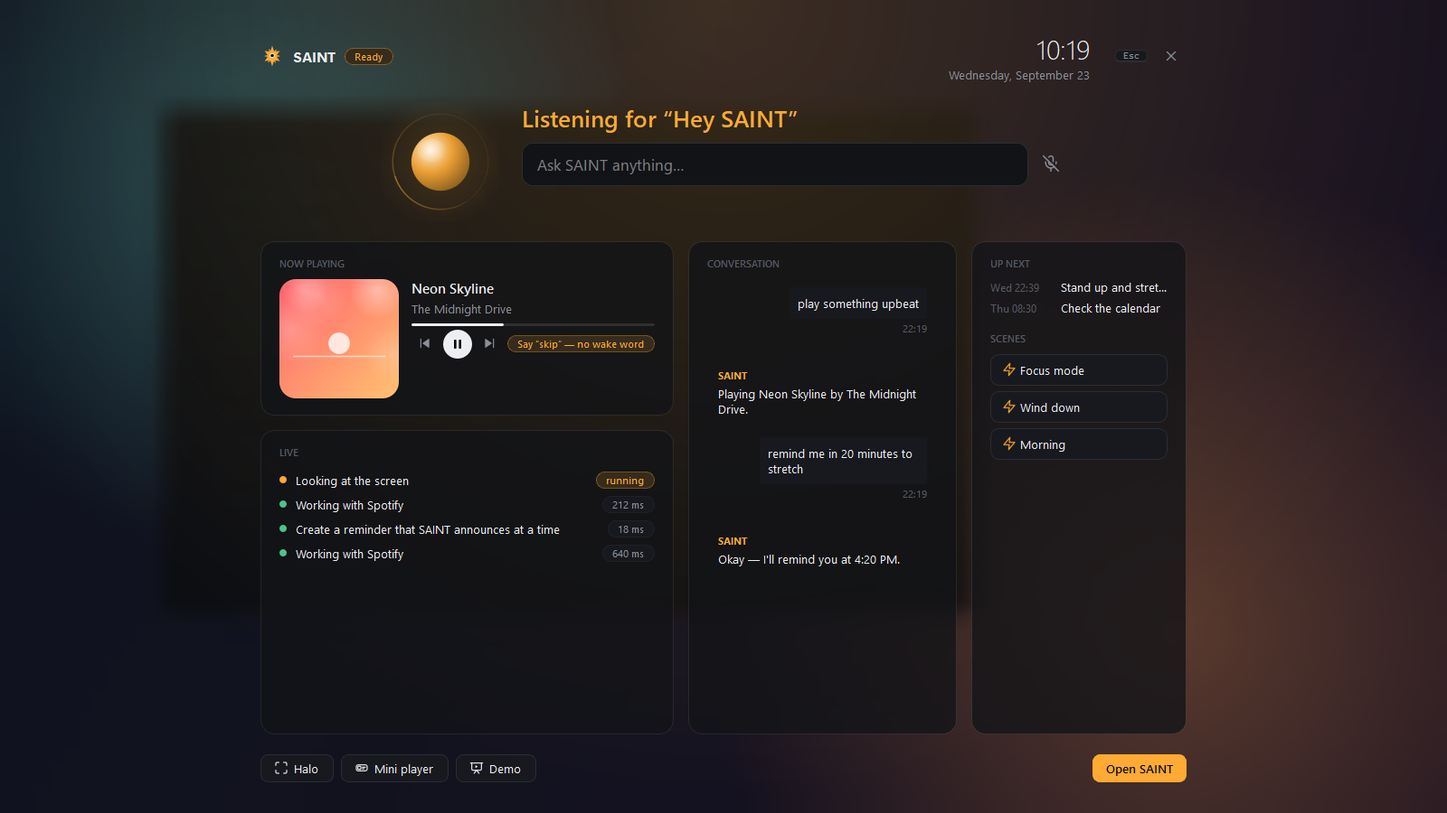
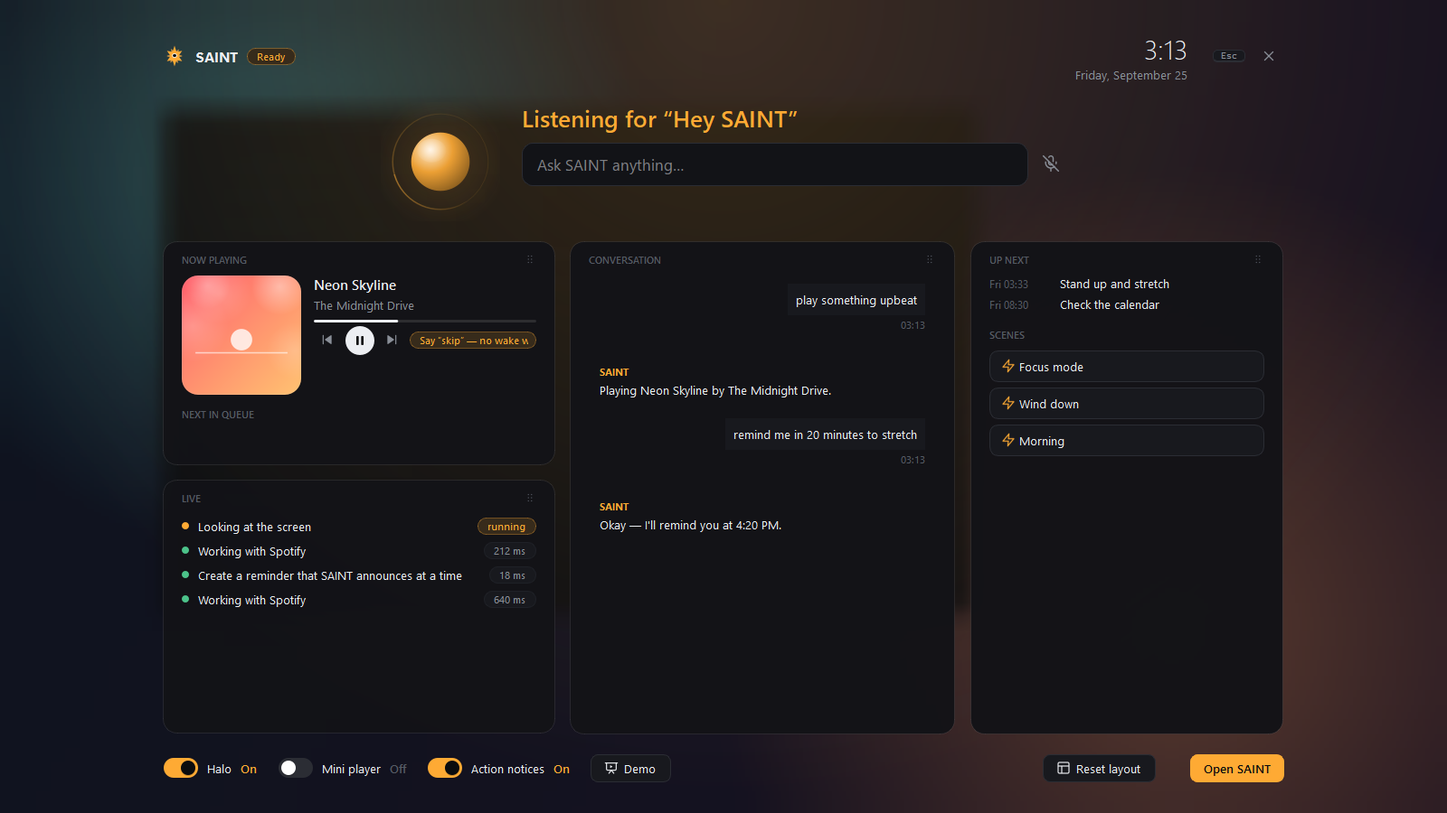
Docs: hands-free PC features, manual checklist, synthetic screenshots
README: what's new, examples, a 'Your PC, hands-free' section, honest
status per feature (what was verified live vs. needs a live check),
limitations, tests, layout and privacy. The manual checklist gains
sections for every new feature. Screenshots are regenerated from
synthetic data, including made-up drives for the Storage card and a
synthetic year for the History heatmap.

diff --git a/tools/dev/screenshots.py b/tools/dev/screenshots.py
@@ -88,6 +88,21 @@ def main():
     from core.events import EventType
     from modules.desktop.media import media
     media.start = lambda: None          # never show what's really playing on this PC
+    # Made-up drives for the Storage card — never this PC's real disks or folders.
+    import modules.files.scan as storage
+    GB = 1e9
+    storage.drive_overview = lambda: [
+        {"drive": "C:\\", "letter": "C", "label": "System", "total": 1000 * GB, "used": 612 * GB, "free": 388 * GB,
+         "percent": 61.2},
+        {"drive": "D:\\", "letter": "D", "label": "Games", "total": 2000 * GB, "used": 1710 * GB,
+         "free": 290 * GB, "percent": 85.5},
+        {"drive": "E:\\", "letter": "E", "label": "Archive", "total": 500 * GB, "used": 481 * GB, "free": 19 * GB,
+         "percent": 96.2}]
+    storage.cached = lambda root: {"root": "C:\\", "total": 612 * GB, "at": time.time() - 600, "folders": [
+        {"path": "C:\\" + p, "size": s * GB, "depth": p.count("\\") + 1} for p, s in (
+            ("Users", 240), ("Program Files", 118), ("Windows", 38), ("Program Files (x86)", 64),
+            ("Users\\alex\\Videos", 96), ("Users\\alex\\AppData", 71), ("Users\\alex\\Downloads", 34),
+            ("ProgramData", 22))]} if root.upper().startswith("C") else None
     from modules.automation.scheduler import scheduler
     from modules.automation.timeparse import parse_schedule
     for what, when in (("Stand up and stretch", "in 20 minutes"), ("Check the calendar", "every weekday at 8:30")):

diff --git a/README.md b/README.md
@@ -34,7 +34,11 @@ UI elements). The language model runs locally through [Ollama](https://ollama.co
   just say **“skip”**, **“pause”**, **“go back”**, **“louder”** — no wake word.
 - **Scenes.** One phrase, many actions: “focus mode” → play lofi, set volume, open Notion. Run them by
   voice, from the overlay, or on a schedule.
-- **History.** Everything you've asked and what SAINT did — with usage charts — stored only on your PC.
+- **Your whole PC, by voice.** Launch Steam games, find what's filling your drives and clear it safely,
+  extract downloads with WinRAR, lock the PC, mute your mic, set Discord to 30 %, switch to your
+  headphones, save and restore window layouts, and "tell me when Claude finishes".
+- **History.** Everything you've asked and what SAINT did — a year of activity as day squares, streaks and
+  usage charts — stored only on your PC.
 - **Command palette.** <kbd>Ctrl</kbd>+<kbd>K</kbd> jumps to any page, runs scenes and actions, or asks
   SAINT directly.
 - **Private by design.** Wake word, speech, voice and language model are all local. Nothing about you
@@ -42,7 +46,58 @@ UI elements). The language model runs locally through [Ollama](https://ollama.co
 
 ## What's new in this version
 
-**Latest:**
+**Latest — hands-free PC control:**
+
+- **SAINT controls itself.** "Open the dashboard", "go to history", "turn off the mini player", "hide the
+  halo", "dark mode", "minimize yourself". "The mini player" means SAINT's; YouTube's only when YouTube is
+  named or being watched.
+- **Steam.** "Launch Counter-Strike 2", "start cs2", "play Terraria on Steam", "open my Steam library",
+  "search Steam for Hades", "what games do I have", "what are my biggest games", "uninstall Celeste" (asks
+  first, and Steam asks again). SAINT reads Steam's own files, including libraries Steam has forgotten
+  about, and tells you how to add them back.
+- **Files and storage.** "How much space is left on E", "what's taking up space on D", "clean up my
+  Downloads", "what can I delete on E", "only the installers", "find my emulators", "open my games
+  folder". Duplicate downloads, archives you've already extracted, temp files, shader caches and old
+  recordings are found for you. Games, emulators, ROMs and Steam libraries are never suggested. Anything
+  removed goes to the Recycle Bin **after you say yes** — SAINT never deletes permanently and refuses
+  anything the Recycle Bin couldn't hold. The System page has a Storage card with every drive, a scan and
+  the biggest folders.
+- **WinRAR.** "Go to my Downloads folder, click the first download and extract it using WinRAR to my games
+  folder" is one action: the newest archive, into its own folder, with a free-space check, progress, no
+  overwriting, and "delete it afterwards" if you ask. "Compress this folder as a rar."
+- **Windows.** "Lock my PC", "restart" / "shut down" (asks, then waits 60 s — "cancel the shutdown"), "mute
+  my mic", "set Discord to 30 percent", "mute the game", "switch audio to my headphones", "brightness 60",
+  "take a screenshot".
+- **Stop, silent mode, whispering.** "Stop" / "cancel" / "stop everything" interrupt speech, multi-step
+  plans, scenes and typing mid-way. "Be quiet for 30 minutes" keeps SAINT working without talking (it
+  still asks questions and reports errors). Whisper a request and SAINT answers quietly. "What are you
+  doing?" describes the plan in progress.
+- **Watching.** "Tell me when Claude finishes", "tell me when this download finishes", "tell me when Steam
+  closes", then "take me back". "What changed while I was away?" "Watch my left screen" makes "click",
+  "read this" and "what's on screen" use that monitor.
+- **Workspaces and scenes.** "Save this workspace as Coding" / "restore Coding" reopens and places every
+  window on the right monitor and resumes your music. New starter scenes: *Gaming mode* ("let's game"),
+  *Done gaming* ("I'm done gaming") and *Dev environment*.
+- **Clipboard, notifications, developer mode.** "Read my clipboard" (never secrets), "summarize / translate
+  what I copied", "fix the code I copied" (the fix goes back on the clipboard). "Read my notifications",
+  "only tell me about important notifications", "always tell me about Discord". "Run the tests", "open the
+  file causing the error". "Handle this" proposes one step for the window in front and asks first.
+- **Personal aliases.** "When I say the lab, I mean open my SAINT project in VS Code."
+- **Spotify learns from what you actually skip.** Skips in the Spotify app are caught within seconds
+  (through Windows' media controls) and recorded once — voice skips used to be counted twice. Paused time
+  isn't "listening". Your Spotify top tracks, saved songs and recently played feed the picks. **DJ mode:**
+  "more energetic", "something darker", "more like the last song", "something I haven't heard", "no more
+  of this artist".
+- **History.** A GitHub-style year of day squares, current and longest streak, success rate, typical reply
+  time, time of day, busiest weekday and how you ask (voice, hot-words, typed, scenes).
+- **Fixes from the logs.** "Moved Otis" now says "Moved Spotify" (and YouTube instead of Opera). "Press F to
+  full screen", "one time speed", "go to my browser on my right screen", "clear everything off the screen
+  but YouTube", "go to Astral Games" (a link on the page) all work. SAINT uses the browser window you used
+  last instead of asking "which one?". Follow-ups without the wake word ignore chatter like "OK? Why
+  not?", and Whisper's "No, no, no, no…" loops are dropped. The `llama3` model-missing warning is gone
+  (your setting is updated to `llama3.1`).
+
+**Previous update:**
 
 - **Rearrange the overlay.** Drag any card in the <kbd>Alt</kbd>+<kbd>`</kbd> overlay by its title bar to
   move it, or drag an edge or corner to resize it. The layout is remembered; *Reset layout* puts it back.
@@ -97,9 +152,9 @@ A ground-up rewrite of the interface:
 | ![Overlay](docs/screenshots/overlay.png) | ![The Halo and the mini player](docs/screenshots/halo.png) |
 | **Overlay** — over whatever you're doing | **Halo** — light around the screen edge, plus the mini player |
 | ![Music](docs/screenshots/music.png) | ![History](docs/screenshots/history.png) |
-| **Music** — cover-tinted player, hands-free words, queue | **History** — local usage stats and timeline |
+| **Music** — cover-tinted player, hands-free words, queue | **History** — a year of activity, streaks and timeline |
 | ![Automations](docs/screenshots/automations.png) | ![System](docs/screenshots/system.png) |
-| **Scenes** — one phrase, many actions | **System** — health, latency, modules |
+| **Scenes** — one phrase, many actions | **System** — health, storage, latency, modules |
 
 <sub>Screenshots are generated by `tools/dev/screenshots.py` from synthetic demo data (fictional tracks
 with generated covers) — no personal data.</sub>
@@ -124,6 +179,7 @@ with generated covers) — no personal data.</sub>
 - [Reminders and automations](#reminders-and-automations)
 - [Desktop control and permissions](#desktop-control-and-permissions)
 - [Screen awareness](#screen-awareness)
+- [Your PC, hands-free](#your-pc-hands-free)
 - [The interface](#the-interface)
 - [Configuration](#configuration)
 - [Logging and debugging](#logging-and-debugging)
@@ -157,6 +213,12 @@ That live run fed synthesized speech into SAINT's voice loop in place of the mic
 | Halo, overlay (global hotkey + edge tab), mini player, demo mode | ✅ Verified live with the real runtime. The Halo costs ~0.1–0.3 % CPU while animating. |
 | Music hot-words ("skip", "pause", "louder" with no wake word while music plays) | ✅ Tested end-to-end through the voice loop with synthetic audio. ⚠ One-word hot-words were fixed after a live run (Whisper scores single words near zero confidence) and need a live re-check. |
 | Scenes (voice phrase, "run …", UI, schedule) and History | ✅ Covered by automated tests. |
+| Steam: installed games, sizes, library/store, launch | ✅ Game list and sizes verified live against this PC's libraries. ⚠ Launching and uninstalling by voice need a live check. |
+| Drive space, biggest folders, junk report, Storage card | ✅ Verified live, read-only (a 500 GB drive with 1.9 M files scans in under a minute). ⚠ Recycling and moving are covered by tests with a simulated Windows file operation; try them on a test folder first. |
+| WinRAR extraction and compression | ✅ Verified with the installed WinRAR against test archives. |
+| Windows controls (lock, power, mic, per-app volume, output device, brightness) | ✅ Audio devices and sessions read live. ⚠ Changing them by voice needs a live check. |
+| Stop / silent mode / whisper replies / "what are you doing?" | ✅ Covered by tests. ⚠ Whisper loudness needs a live check. |
+| Watchers, "what changed?", workspaces, notifications, clipboard | ✅ Covered by tests; the notification list was read live on this PC. ⚠ Restoring a workspace across monitors needs a live check. |
 
 ### Known limitations
 
@@ -176,6 +238,16 @@ That live run fed synthesized speech into SAINT's voice loop in place of the mic
   from the queue** isn't possible through the API at all, and SAINT says so.
 - **Spotify genre data** is no longer returned to new apps, so "something like X" uses the artist,
   their collaborators and your own listening history.
+- **Notifications** are read from Windows' own notification list (read-only), because Windows reserves its
+  notification-listener API for Store apps. A future Windows update could change that file's layout.
+- **Do Not Disturb** has no API for regular apps: SAINT opens its settings. **Brightness** works on laptop
+  screens; most desktop monitors don't let Windows change it.
+- **An old Windows installation on a second drive** (like `E:\Windows` + `E:\Users`) is far too big for
+  the Recycle Bin, so SAINT only reports it. Copy what you need from its `Users` folder, then format the
+  drive yourself in Disk Management.
+- **Steam libraries Steam doesn't list** (e.g. after reinstalling Windows) are shown, but their games can't
+  be launched until you add the folder in Steam → Settings → Storage.
+- **Workspaces** put programs and windows back, not browser tabs or open files.
 - **Web pages** are read through the browser's accessibility tree. Pages that don't expose their
   content (canvas apps, some games) can't be clicked by name; use coordinates or a vision model.
 
@@ -341,7 +413,17 @@ on my second screen".
 | "…move the browser to my second monitor" · "make it bigger" · "put it on the left" · "put this window next to Spotify" · "close all the browser windows" | Window management (closing asks first) |
 | "…open my browser, search YouTube for Kendrick Lamar, click the first video, and turn the volume down" | Multi-step plan, each step verified |
 | "…what's on my second screen?" · "what am I looking at?" · "what's currently open?" · "what is this error?" | Screen understanding per monitor. "Error" answers only from text actually on screen. |
-| "…stop" (while SAINT is talking) | Stops speaking |
+| "…open the dashboard" · "go to history" · "turn off the mini player" · "hide the halo" · "dark mode" | SAINT's own window |
+| "…launch Counter-Strike 2" · "open my Steam library and search Hades" · "what are my biggest games?" | Steam |
+| "…how much space is left on E?" · "what's taking up space on D?" · "clean up my Downloads" · "only the installers" | Storage (removing always asks; Recycle Bin only) |
+| "…go to my Downloads, click the first download and extract it using WinRAR to my games folder" | One extraction, newest archive → its own folder |
+| "…lock my PC" · "mute my mic" · "set Discord to 30 percent" · "switch audio to my headphones" · "restart" (asks) | Windows controls |
+| "…tell me when Claude finishes" · "take me back" · "what changed while I was away?" · "watch my left screen" | Watching |
+| "…save this workspace as Coding" · "restore Coding" · "gaming mode" · "I'm done gaming" | Workspaces and scenes |
+| "…read my clipboard" · "fix the code I copied" · "read my notifications" · "run the tests" · "handle this" | Clipboard, notifications, developer mode |
+| "…more energetic" · "something darker" · "more like the last song" · "no more of this artist" | Spotify DJ mode |
+| "…when I say the lab, I mean open my SAINT project" · "be quiet for 30 minutes" · "what are you doing?" | Aliases, silent mode, status |
+| "…stop" · "cancel" · "stop everything" | Stops speaking, the running plan or scene, and typing (everything also stops background work) |
 
 Anything else goes to the language model, which can also call the same tools.
 
@@ -593,6 +675,51 @@ Vision → *Screen reading* turns it off.
 
 ---
 
+## Your PC, hands-free
+
+Everything here also works typed, and every destructive action asks first. Nothing is ever deleted
+permanently: removals go to the Recycle Bin, and SAINT checks the Recycle Bin can hold each item first.
+
+**SAINT itself** — "open the dashboard", "go to history / settings / music", "turn off the mini player",
+"hide the halo" / "halo always on", "open the overlay", "turn off action notices", "dark mode",
+"minimize yourself".
+
+**Steam** — reads `libraryfolders.vdf` and each `appmanifest_*.acf`, plus `steam.extra_libraries`
+(default `D:\SteamLibrary`). Launching uses `steam://rungameid/…`, so Steam does the work.
+
+**Files and storage** (`modules/files`) — drive overview, background scans (cached for
+`files.scan_cache_hours`), a junk report, and cleanup that asks before anything moves. "My games folder" is
+`files.games_dir` (default `D:\Games`); name more folders in `files.known`. Never touched: Windows, Program
+Files, ProgramData, drive roots, your profile folder itself, code repositories and SAINT. Never suggested:
+Steam libraries, your games folder, emulators and ROMs.
+
+**Archives** — `.rar` through WinRAR's `UnRAR.exe` (with progress), `.zip` through WinRAR or Python,
+`.7z` through `WinRAR.exe`. The archive goes into its own folder unless it's already wrapped in one.
+
+**Windows** — lock, sleep, restart, shut down (asks; restart and shutdown wait 60 s), mic mute, per-app and
+whole-PC volume, output device, brightness, screenshots (Pictures\Screenshots). Audio uses `pycaw`.
+
+**Stop and silence** — "stop", "cancel", "shut up" stop what's happening now; "stop everything" also stops
+background scans, extraction and watchers. "Silent mode" / "be quiet for 30 minutes" / "you can talk again".
+Quiet requests get quiet answers (Settings: `voice.whisper_replies`, `whisper_rms`, `whisper_gain`).
+
+**Watching** (`modules/watch`) — up to five watches at a time, each ending after two hours. "Finished"
+means the window changed and then stayed still for 8 seconds (a reply finished streaming, a build
+finished). "What changed?" compares window titles and tiny per-screen fingerprints kept in memory for 30
+minutes.
+
+**Workspaces** — `data/workspaces.json`: each window's program, monitor, position and state, plus the
+Spotify context. **Scenes** *Gaming mode*, *Done gaming* and *Dev environment* are added once; edit or
+delete them on the Automations page.
+
+**Notifications** — off until you say "read my notifications out loud" (or enable the module). Then new
+notifications that match `notifications.keywords`, or come from an app in `notifications.allow`, are
+announced; apps in `notifications.deny` never are. "Read my notifications" works any time.
+
+**Aliases** — "when I say X, I mean Y" (`data/aliases.json`); "what aliases do I have", "forget the alias X".
+
+---
+
 ## The interface
 
 Everything you see is driven by real events from the core runtime — the UI never guesses what SAINT is
@@ -664,7 +791,7 @@ Main sections: `voice.*` (mic, VAD, barge-in, STT, TTS, wake word, `music_hotwor
 .venv\Scripts\python -m pytest
 ```
 
-329 automated tests cover:
+About 700 automated tests cover:
 
 - wake-word model loading, silence and noise rejection, the windowed trigger and cooldown
 - music hot-words (accepted only while music is active, whole-utterance match, confidence floor)
@@ -681,7 +808,16 @@ Main sections: `voice.*` (mic, VAD, barge-in, STT, TTS, wake word, `music_hotwor
 - memory store, recall, update and delete, including persistence across a restart
 - the scheduler (parse, persist, execute, missed reminders, recurring, cancel)
 - tool validation, permissions and confirmations, and desktop safety checks
-- Spotify resolution, device recovery and listening memory against a simulated API
+- Spotify resolution, device recovery and listening memory against a simulated API, including skips
+  counted once, paused time, skip sources and DJ mode
+- SAINT's own window by voice, and every misrouted request from the live logs
+- Steam file parsing and game matching; drive scans (junctions, cloud files), junk rules, WinRAR
+  listing, zip-slip protection, and Recycle Bin / move safety against a simulated Windows file operation
+  (a test fails if permanent deletion ever appears in `modules/files`)
+- stop / silent mode / whisper replies, cancelling multi-step plans, aliases, the follow-up intent gate
+- History streaks, heatmap levels and the never-trimmed daily summary
+- Windows controls, clipboard (secret detection), workspaces, watchers with a fake clock, "what
+  changed?", error-location parsing, "handle this" validation, notification parsing
 
 Tests use a temporary data directory and mock STT, TTS and LLM backends, so they never touch your
 settings, microphone, Spotify account or desktop. `tools/dev/` holds manual diagnostic scripts, and
@@ -725,7 +861,10 @@ core/
   events.py             event bus (direct core subscribers + Qt signal for UI)
   config.py, paths.py   settings (+ migration) and project-relative paths
   permissions.py        allow / confirm / deny policy
-  history.py            local usage log (data/history.jsonl) behind the History page
+  history.py            local usage log (data/history.jsonl) + never-trimmed daily summary
+  history_stats.py      streaks, heatmap levels and totals for the History page
+  cancel.py, activity.py  "stop" across plans/scenes/typing; "what are you doing?"
+  ui_link.py            lets tools drive SAINT's window on the GUI thread
   logger.py, device.py, analytics.py, state.py, setup.py
 modules/
   voice/                mic capture, VAD, wake word (ONNX), STT, TTS
@@ -733,7 +872,14 @@ modules/
   automation/           tool registry, scheduler, time parser, scenes, background tasks
   spotify/              OAuth PKCE, API client, tools, listening memory
   memory/               SQLite store + structured memory service
-  desktop/              apps, windows, keyboard/mouse, UI Automation
+  desktop/              apps, windows, keyboard/mouse, UI Automation, clipboard, Windows/audio controls
+  files/                drive scans, junk rules, Recycle Bin / move (undoable), WinRAR archives
+  steam/                Steam library files, game matching, steam:// actions
+  watch/                watchers ("tell me when…") and the "what changed?" log
+  workspace/            saved window layouts
+  notifications/        Windows notifications (read-only)
+  dev/                  run tests, open the file behind an error
+  ui_control/           voice control of SAINT's own window
   vision/               screen capture, UI context, optional vision model
   ai/                   providers (Ollama/OpenAI-compatible/mock), context
 ui/
@@ -762,5 +908,10 @@ tools/                  wake-word training config, dev scripts
   is never uploaded. Demo mode never writes to it.
 - The overlay's frosted background is a snapshot of your screen taken the moment it opens; it's kept
   in memory only and dropped when the overlay closes.
+- **Files are never deleted permanently.** Removals go to the Recycle Bin after you confirm; moving,
+  recycling, uninstalling games and power actions always ask, whatever the permission mode.
+- **Clipboard and notifications stay on your PC** and are never offered to the language model as tools.
+  Anything that looks like a password, key or token is never read aloud.
+- "What changed?" keeps window titles and 64-bit screen fingerprints in memory only, for 30 minutes.
 - The LLM can only act through explicit, validated tools. It has no shell access, and high-risk
   actions need your confirmation.

diff --git a/docs/MANUAL_TESTING.md b/docs/MANUAL_TESTING.md
@@ -139,3 +139,83 @@ Legend: ✅ = verified automatically/live during development · 🔲 = needs you
 | ✅ | Create a scene "Focus mode" (play lofi beats · set volume to 35 · minimize all windows besides Claude), then say "Hey SAINT, focus mode" | All steps run; a toast confirms; History shows a Scene entry |
 | ✅ | History page after a few requests | Counts, 30-day chart, most-used tools and the timeline match what you did |
 | ✅ | Ctrl+K → "demo" → Enter, then Esc part-way | Demo drives the UI; Esc stops it and your real state and chat come back |
+
+## SAINT's own window
+
+| | Test | Expected |
+|---|---|---|
+| 🔲 | "Turn off the mini player" · "show the mini player" (with and without a YouTube tab in front) | SAINT's mini player hides/shows; YouTube's miniplayer only when you say "YouTube mini player" |
+| 🔲 | "Open the dashboard" · "go to history" · "go to settings" · "open settings" | SAINT's pages; plain "open settings" still opens Windows Settings |
+| 🔲 | "Hide the halo" · "dark mode" · "minimize yourself" | Applied at once |
+
+## Stop, silence, status
+
+| | Test | Expected |
+|---|---|---|
+| 🔲 | Start a long multi-step request or a scene, then "stop" | It stops before the next step; no keys left held down |
+| 🔲 | "Be quiet for 5 minutes", then "skip" / "what time is it" / "open blahblah" | Acts silently on the first two (reply shown on screen), still says the error for the third |
+| 🔲 | Whisper "Hey SAINT, what time is it" | Answer is noticeably quieter |
+| 🔲 | During a long request: "what are you doing?" | Names the current step without cancelling it |
+| 🔲 | In a follow-up window, talk to someone else ("OK, why not?") | Ignored |
+
+## Steam
+
+| | Test | Expected |
+|---|---|---|
+| ✅ | "What games do I have" · "what are my biggest games" · "how big is Apex Legends" | Lists from Steam's files (verified live) |
+| 🔲 | "Launch Terraria" · "start cs2" | Game starts through Steam |
+| 🔲 | "Launch Apex Legends" (in the unregistered D:\SteamLibrary) | Explains how to add the library in Steam → Settings → Storage |
+| 🔲 | "Open my Steam library and search how many dudes" | Opens the library, then "you don't have it" + store search |
+
+## Files, storage and WinRAR (try removals on a test folder first)
+
+| | Test | Expected |
+|---|---|---|
+| ✅ | "How much space is left on E" · "how full are my drives" | Real numbers (verified live) |
+| ✅ | "What's taking up space on E" | Announces the biggest folders when the background scan ends (E: ≈ 50 s) |
+| 🔲 | Put a file and an identical "file (1)" copy in Downloads → "clean up my Downloads" → "yes" | The copy goes to the Recycle Bin; restore it from there |
+| 🔲 | "What can I delete on E" | Reports the old Windows install on E: as report-only, plus recordings |
+| 🔲 | "Empty the recycle bin" | Refuses, opens the Recycle Bin |
+| 🔲 | Download a .rar → "go to my Downloads folder, click the first download and extract it using WinRAR to my games folder" | Progress, then "Extracted … to D:\Games\…"; nothing overwritten |
+| 🔲 | "Unzip the latest download and delete it afterwards" → "yes" | Extracts, then asks, then recycles the archive |
+| 🔲 | "Move this folder to the D drive" (a test folder selected in Explorer) → "yes" | Windows' own move with progress; Ctrl+Z in Explorer undoes it |
+| 🔲 | System page → Storage → Scan / Check for junk | Bars, biggest folders with Open, junk summary |
+
+## Windows controls
+
+| | Test | Expected |
+|---|---|---|
+| 🔲 | "Mute my mic" / "unmute my mic" | The Windows mic mute icon changes |
+| 🔲 | "Set Spotify to 30 percent" · "mute the game" (a game in front) | Volume mixer changes for that app only |
+| 🔲 | "Switch audio to my headphones" · "use my speakers" | Default output changes (HyperX = headphones) |
+| 🔲 | "Restart my PC" → "yes" → "cancel the shutdown" | Windows shows the 60 s warning, then it's cancelled |
+| 🔲 | "Lock my PC" · "take a screenshot" | Locks · PNG in Pictures\Screenshots |
+
+## Watching, workspaces, clipboard, notifications, developer mode
+
+| | Test | Expected |
+|---|---|---|
+| 🔲 | Ask Claude something, then "tell me when Claude finishes" → switch away → "take me back" | Announced a few seconds after the reply stops streaming; focuses Claude |
+| 🔲 | Start a download → "tell me when this download finishes" | Announced when the file is complete |
+| 🔲 | Step away ≥ 2 min, come back → "what changed while I was away?" | Windows opened/closed/retitled |
+| 🔲 | "Watch my right screen" → "what's on my screen?" → "use all screens" | Uses the right monitor, then follows you again |
+| 🔲 | Arrange windows on both monitors → "save this workspace as Coding" → move them → "restore Coding" | Windows go back to their monitors and sizes; closed apps reopen |
+| 🔲 | "Gaming mode" → "I'm done gaming" | Saves the layout, pauses music, opens Steam, goes quiet · restores and talks again |
+| 🔲 | Copy a paragraph → "summarize what I copied"; copy buggy code → "fix the code I copied" → "paste" | Spoken summary; fixed code pasted |
+| 🔲 | "Read my notifications out loud", then get a Discord message / a failed build | Announced if important; "always tell me about Discord" |
+| 🔲 | Copy a Python traceback → "open the file causing the error" | VS Code opens at that line |
+| 🔲 | A dialog asking to update → "handle this" | Proposes one button and asks before clicking |
+
+## Spotify learning
+
+| | Test | Expected |
+|---|---|---|
+| 🔲 | Skip a song in the Spotify app itself | One `skips` row with source `app` within ~2 s |
+| 🔲 | Say "skip" | Exactly one `skips` row, source `voice` |
+| 🔲 | "More energetic" · "more like the last song" · "no more of this artist" | Picks change accordingly; the artist stops appearing |
+
+## History
+
+| | Test | Expected |
+|---|---|---|
+| ✅ | History page with a year of synthetic data, dark and light theme | Day squares fill the card, hover shows "N requests · date", streak / success / time-of-day cards |
